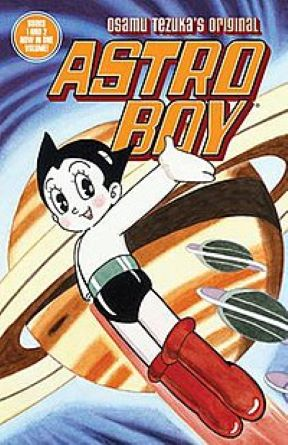
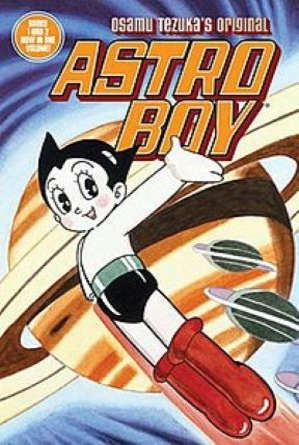
new assets

diff --git a/style.css b/style.css
@@ -488,9 +488,6 @@ section {
   height: 445px;
   border-radius: 10px;
   align-items: center;
-  width: 210px;
-  height: auto;
-  border-radius: 10px;
 }
 
 .box {
